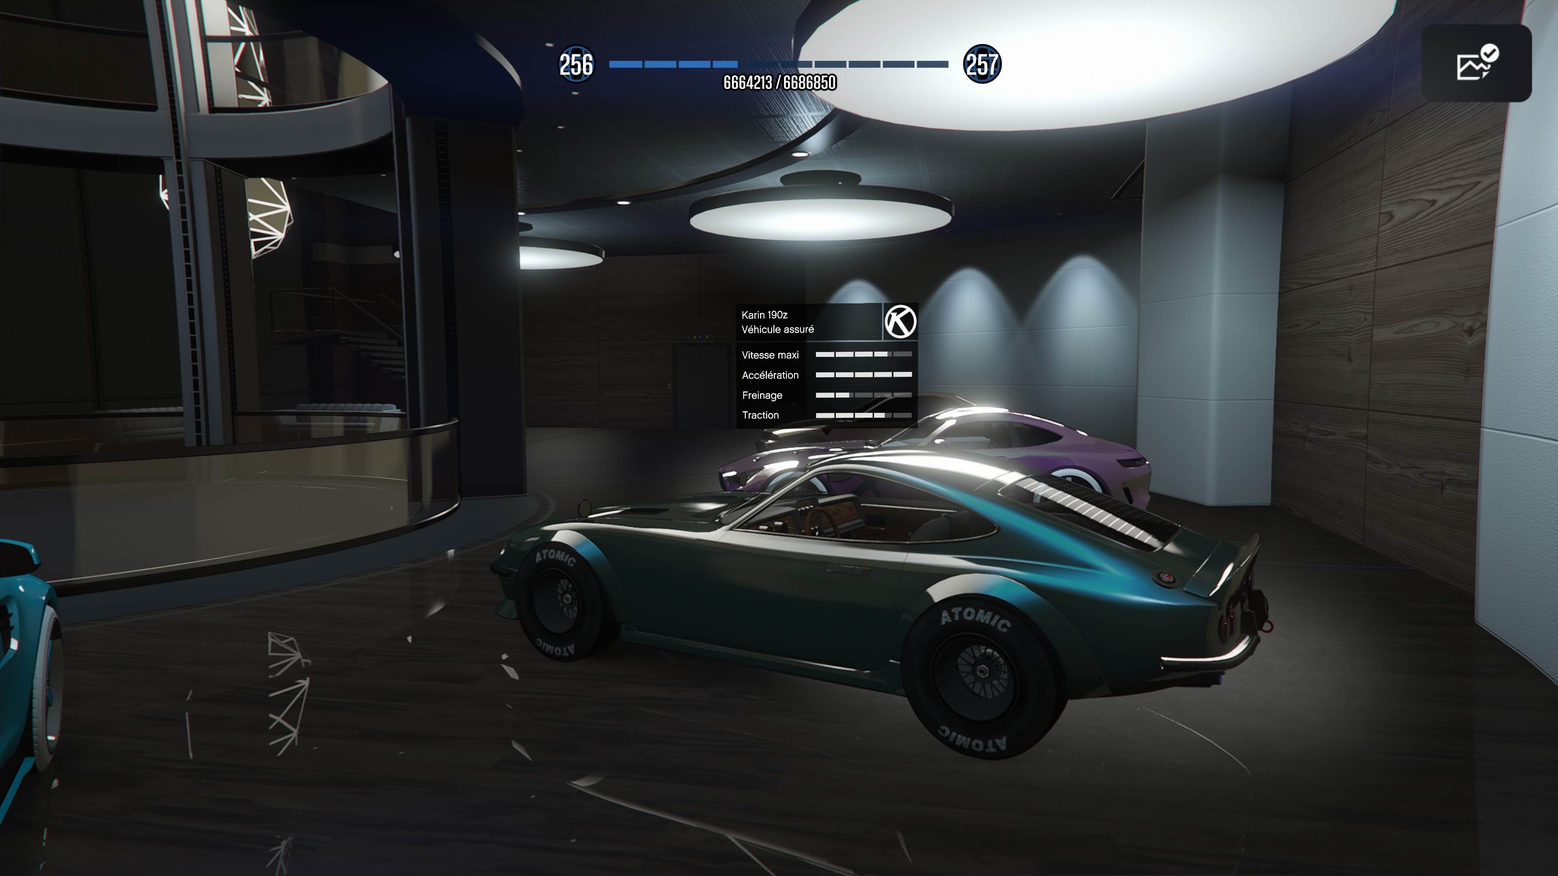
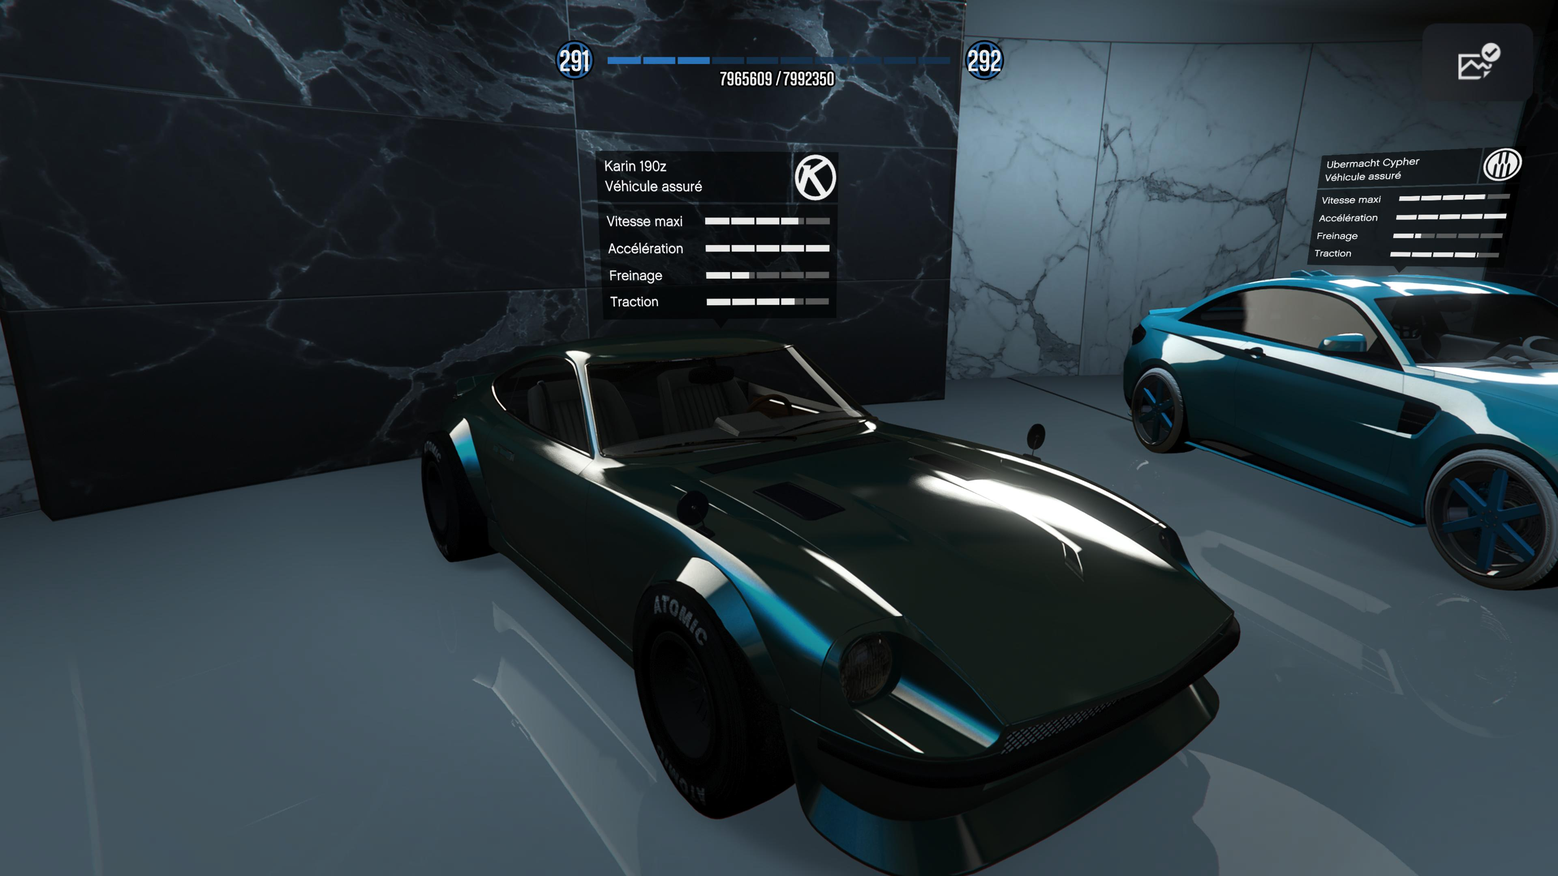
Add files via upload

diff --git a/vehicules.html b/vehicules.html
@@ -300,6 +300,57 @@
 
         // --- LISTE DES VÉHICULES ---
         const vehicles = [
+            
+            // --- BOITE 2 (Ordre : Zentorno, Vectre, S95, Itali GTO, ETR1) ---
+            { name: "Pegassi Zentorno", images: ["boite2/Zentorno.jpg", "boite2/Zentorno1.jpg", "boite2/Zentorno2.jpg", "boite2/Zentorno3.jpg"], tag: "Caméléon • F1 • Yankton", garage: "boite2" },
+            { name: "Emperor Vectre", images: ["boite2/Vectre.jpg", "boite2/Vectre1.jpg", "boite2/Vectre2.jpg", "boite2/Vectre3.jpg"], tag: "Vert • F1 • Yankton", garage: "boite2" },
+            { name: "Karin S95", images: ["boite2/S95.jpg", "boite2/S951.jpg", "boite2/S952.jpg", "boite2/S953.jpg"], tag: "Rose • F1 • Yankton", garage: "boite2" },
+            { name: "Grotti Itali GTO", images: ["boite2/Itali GTO.jpg", "boite2/Itali GTO1.jpg", "boite2/Itali GTO2.jpg", "boite2/Itali GTO3.jpg"], tag: "Bleu • F1 • Yankton", garage: "boite2" },
+            { name: "Emperor ETR1", images: ["boite2/ETR.jpg", "boite2/ETR1.jpg", "boite2/ETR2.jpg", "boite2/ETR3.jpg"], tag: "Bleu • F1 • Yankton", garage: "boite2" },
+
+            // --- FONCTION 2 (Ordre du menu) ---
+            { name: "Canis Kalahari", images: ["fonction2/Kalahari.jpg", "fonction2/Kalahari1.jpg", "fonction2/Kalahari2.jpg", "fonction2/Kalahari3.jpg"], tag: "Rose • F1 • Yankton", garage: "fonction2" },
+            { name: "Albany Roosevelt Valor", images: ["fonction2/Roosevelt.jpg", "fonction2/Roosevelt1.jpg", "fonction2/Roosevelt2.jpg", "fonction2/Roosevelt3.jpg"], tag: "Violet • F1 • Yankton", garage: "fonction2" },
+            { name: "Ubermacht Cypher", images: ["fonction2/Cypher.jpg", "fonction2/Cypher1.jpg", "fonction2/Cypher2.jpg", "fonction2/Cypher3.jpg"], tag: "Bleu • F1 • Yankton", garage: "fonction2" },
+            { name: "Karin 190z", images: ["fonction2/190z.jpg", "fonction2/190z1.jpg", "fonction2/190z2.jpg", "fonction2/190z3.jpg"], tag: "Vert • F1 • Yankton", garage: "fonction2" },
+            { name: "Benefactor Schlagen GT", images: ["fonction2/Schlagen.jpg", "fonction2/Schlagen1.jpg", "fonction2/Schlagen2.jpg", "fonction2/Schlagen3.jpg"], tag: "Violet • F1 • Yankton", garage: "fonction2" },
+            { name: "Elegy Rétro Custom", images: ["fonction2/elegy.jpg", "fonction2/elegy1.jpg", "fonction2/elegy2.jpg", "fonction2/elegy3.jpg"], tag: "Gris • F1 • Yankton", garage: "fonction2" },
+            { name: "Willard Eudora", images: ["fonction2/Eudora.jpg", "fonction2/Eudora1.jpg", "fonction2/Eudora2.jpg"], tag: "Jaune • F1 • Yankton", garage: "fonction2" },
+            { name: "Weeny Dynasty", images: ["fonction2/Dynasty.jpg", "fonction2/Dynasty1.jpg", "fonction2/Dynasty2.jpg"], tag: "Jaune • F1 • Yankton", garage: "fonction2" },
+            { name: "RUNE Zhaba", images: ["fonction2/Zhaba.jpg", "fonction2/Zhaba1.jpg", "fonction2/Zhaba2.jpg", "fonction2/Zhaba3.jpg"], tag: "Bleu • F1 • Yankton", garage: "fonction2" },
+            { name: "Grotti Itali RSX", images: ["fonction2/Itali RSX.jpg", "fonction2/Itali RSX1.jpg", "fonction2/Itali RSX2.jpg", "fonction2/Itali RSX3.jpg"], tag: "Violet • F1 • Yankton", garage: "fonction2" },
+            { name: "Albany Brigham", images: ["fonction2/Brigham.jpg", "fonction2/Brigham1.jpg", "fonction2/Brigham2.jpg"], tag: "Noir • F1 • Yankton", garage: "fonction2" },
+            { name: "Corbillard Romero", images: ["fonction2/Corbillard Romero.jpg", "fonction2/Corbillard Romero1.jpg", "fonction2/Corbillard Romero2.jpg", "fonction2/Corbillard Romero3.jpg"], tag: "Vert • F1 • Yankton", garage: "fonction2" },
+            { name: "Bravado Rat-Loader", images: ["fonction2/Rat-loader.jpg", "fonction2/Rat-loader1.jpg", "fonction2/Rat-loader2.jpg", "fonction2/Rat-loader3.jpg"], tag: "Blanc • F1 • Yankton", garage: "fonction2" },
+            { name: "Grotti Itali GTO", images: ["fonction2/Itali GTO.jpg", "fonction2/Itali GTO1.jpg", "fonction2/Itali GTO2.jpg", "fonction2/Itali GTO3.jpg"], tag: "Noir • F1 • Yankton", garage: "fonction2" },
+            { name: "BF Raptor", images: ["fonction2/Raptor.jpg", "fonction2/Raptor1.jpg", "fonction2/Raptor2.jpg", "fonction2/Raptor3.jpg"], tag: "Bleu • F1 • Yankton", garage: "fonction2" },
+            { name: "Overflod Pipistrello", images: ["fonction2/Pipistrello.jpg", "fonction2/Pipistrello1.jpg", "fonction2/Pipistrello2.jpg", "fonction2/Pipistrello3.jpg"], tag: "Bleu • F1 • Yankton", garage: "fonction2" },
+            { name: "Ocelot XA-21", images: ["fonction2/XA.jpg", "fonction2/XA1.jpg", "fonction2/XA2.jpg", "fonction2/XA3.jpg"], tag: "Vert • F1 • Yankton", garage: "fonction2" },
+            { name: "Caddie", images: ["fonction2/Caddie.jpg", "fonction2/Caddie1.jpg", "fonction2/Caddie2.jpg", "fonction2/Caddie3.jpg"], tag: "Vert • F1 • Yankton", garage: "fonction2" },
+            { name: "Invetero Coquette D5", images: ["fonction2/D5.jpg", "fonction2/D51.jpg", "fonction2/D52.jpg", "fonction2/D53.jpg"], tag: "Rouge • F1 • Yankton", garage: "fonction2" },
+            { name: "Enus Paragon S", images: ["fonction2/Paragon S.jpg", "fonction2/Paragon S1.jpg", "fonction2/Paragon S2.jpg", "fonction2/Paragon S3.jpg"], tag: "Rose • F1 • Yankton", garage: "fonction2" },
+
+            // --- FONCTION 3 (Ordre du menu) ---
+            { name: "Blazer Street", images: ["fonction3/street.jpg"], tag: "Violet • F1 • Yankton", garage: "fonction3" },
+            { name: "Hot Rod Blazer", images: ["fonction3/Blazer.jpg"], tag: "Bleu • F1 • Yankton", garage: "fonction3" },
+            { name: "Ubermacht Revolter", images: ["fonction3/Revolter.jpg"], tag: "Violet • F1 • Yankton", garage: "fonction3" },
+            { name: "Canis Bodhi", images: ["fonction3/Bodhi.jpg"], tag: "Gris • F1 • Yankton", garage: "fonction3" },
+            { name: "Go Go Monkey Blista", images: ["fonction3/monkey.jpg"], tag: "Noir • F1 • Yankton", garage: "fonction3" },
+            { name: "Dinka Sugoi", images: ["fonction3/Sugoi.jpg"], tag: "Gris • F1 • Yankton", garage: "fonction3" },
+            { name: "Karin Calico GTF", images: ["fonction3/Calico GTF.jpg"], tag: "Noir • F1 • Yankton", garage: "fonction3" },
+            { name: "Emperor Vectre", images: ["fonction3/Vectre.jpg"], tag: "Caméléon • F1 • Yankton", garage: "fonction3" },
+            { name: "Bravado Verlierer", images: ["fonction3/Verlierer.jpg"], tag: "Gris • F1 • Yankton", garage: "fonction3" },
+            { name: "Canis Castigator", images: ["fonction3/Castigator.jpg"], tag: "Vert • F1 • Yankton", garage: "fonction3" },
+            { name: "Coil Cyclone II", images: ["fonction3/Cyclone II.jpg"], tag: "Rose • F1 • Yankton", garage: "fonction3" },
+            { name: "MTL Dune", images: ["fonction3/Dune.jpg"], tag: "Or • F1 • Yankton", garage: "fonction3" },
+            { name: "Vapid Hotknife", images: ["fonction3/Hotknife.jpg"], tag: "Gris • F1 • Yankton", garage: "fonction3" },
+            { name: "Imponte Nightshade", images: ["fonction3/Nightshade.jpg"], tag: "Rouge • F1 • Yankton", garage: "fonction3" },
+            { name: "Benefactor Panto", images: ["fonction3/Panto.jpg"], tag: "Vert • F1 • Yankton", garage: "fonction3" },
+            { name: "HVY Scarab", images: ["fonction3/Scarab anticipation.jpg"], tag: "Or • F1 • Yankton", garage: "fonction3" },
+            { name: "Turismo Classique", images: ["fonction3/Turismo classique.jpg"], tag: "Noir • F1 • Yankton", garage: "fonction3" },
+            { name: "ZR380 Anticipation", images: ["fonction3/ZR380 anticipation.jpg"], tag: "Rouge • F1 • Yankton", garage: "fonction3" },
+            { name: "Blista Kanjo", images: ["fonction3/Blista Kanjo.jpg"], tag: "Noir • F1 • Yankton", garage: "fonction3" },
+
             // --- ARENE RDC ---
             { name: "Obey 8F Drafter", images: ["arenerdc/8F Drafter.jpg", "arenerdc/8F Drafter1.jpg", "arenerdc/8F Drafter2.jpg", "arenerdc/8F Drafter3.jpg"], tag: "Bleu • F1 • Yankton", garage: "arenerdc" },
             { name: "Obey 10F Widebody", images: ["arenerdc/10f large.jpg", "arenerdc/10f large1.jpg", "arenerdc/10f large2.jpg", "arenerdc/10f large3.jpg"], tag: "Or • Benny's • Yankton", garage: "arenerdc" },
@@ -332,55 +383,7 @@
             { name: "Progen T20", images: ["arene2/T20.jpg", "arene2/T201.jpg"], tag: "Violet • F1 • Yankton", garage: "arene2" },
             { name: "Dewbauchee Vagner", images: ["arene2/Vagner.jpg"], tag: "Noir • F1 • Yankton", garage: "arene2" },
             { name: "Grotti Vigilante", images: ["arene2/Vigilante.jpg"], tag: "Gris • F1 • Yankton", garage: "arene2" },
-            { name: "Apocalypse ZR380", images: ["arene2/ZR380 anticipation.jpg", "arene2/ZR380 anticipation1.jpg", "arene2/ZR380 anticipation2.jpg"], tag: "Vert • F1 • Yankton", garage: "arene2" },
-
-            // --- BOITE 2 ---
-            { name: "Emperor Vectre", images: ["boite2/Vectre.jpg", "boite2/Vectre1.jpg", "boite2/Vectre2.jpg", "boite2/Vectre3.jpg"], tag: "Vert • F1 • Yankton", garage: "boite2" },
-            { name: "Pegassi Zentorno", images: ["boite2/Zentorno.jpg", "boite2/Zentorno1.jpg", "boite2/Zentorno2.jpg", "boite2/Zentorno3.jpg"], tag: "Vert • F1 • Yankton", garage: "boite2" },
-
-            // --- FONCTION 2 ---
-            { name: "Karin 190z", images: ["fonction2/190z.jpg"], tag: "Vert • F1 • Yankton", garage: "fonction2" },
-            { name: "Bravado Rat-Loader", images: ["fonction2/Bravado.jpg"], tag: "Noir • F1 • Yankton", garage: "fonction2" },
-            { name: "Albany Brigham", images: ["fonction2/Brigham.jpg"], tag: "Noir • F1 • Yankton", garage: "fonction2" },
-            { name: "Caddie", images: ["fonction2/Caddie.jpg"], tag: "Vert • F1 • Yankton", garage: "fonction2" },
-            { name: "Ubermacht Cypher", images: ["fonction2/Cypher.jpg"], tag: "Vert • F1 • Yankton", garage: "fonction2" },
-            { name: "Invetero Coquette D5", images: ["fonction2/D5.jpg"], tag: "Rouge • F1 • Yankton", garage: "fonction2" },
-            { name: "Invetero Coquette D10", images: ["fonction2/D10.jpg"], tag: "Noir • F1 • Yankton", garage: "fonction2" },
-            { name: "Weeny Dynasty", images: ["fonction2/Dynasty.jpg"], tag: "Jaune • F1 • Yankton", garage: "fonction2" },
-            { name: "Elegy Rétro Custom", images: ["fonction2/elegy.jpg"], tag: "Gris • F1 • Yankton", garage: "fonction2" },
-            { name: "Willard Eudora", images: ["fonction2/Eudora.jpg"], tag: "Jaune • F1 • Yankton", garage: "fonction2" },
-            { name: "Grotti Itali GTO", images: ["fonction2/Itali GTO.jpg"], tag: "Noir • F1 • Yankton", garage: "fonction2" },
-            { name: "Grotti Itali RSX", images: ["fonction2/Itali.jpg"], tag: "Violet • F1 • Yankton", garage: "fonction2" },
-            { name: "Canis Kalahari", images: ["fonction2/Kalahari.jpg"], tag: "Rose • F1 • Yankton", garage: "fonction2" },
-            { name: "Enus Paragon S", images: ["fonction2/Paragon S.jpg"], tag: "Rose • F1 • Yankton", garage: "fonction2" },
-            { name: "Overflod Pipistrello", images: ["fonction2/Pipistrello.jpg"], tag: "Bleu • F1 • Yankton", garage: "fonction2" },
-            { name: "BF Raptor", images: ["fonction2/Raptor.jpg"], tag: "Vert • F1 • Yankton", garage: "fonction2" },
-            { name: "Corbillard Romero", images: ["fonction2/Romero.jpg"], tag: "Vert • F1 • Yankton", garage: "fonction2" },
-            { name: "Schlagen GT", images: ["fonction2/schlagen.jpg"], tag: "Bleu • F1 • Yankton", garage: "fonction2" },
-            { name: "Schlagen GT (v2)", images: ["fonction2/Schlagen GT.jpg"], tag: "Bleu • F1 • Yankton", garage: "fonction2" },
-            { name: "Albany Roosevelt Valor", images: ["fonction2/Valor.jpg"], tag: "Violet • F1 • Yankton", garage: "fonction2" },
-            { name: "RUNE Zhaba", images: ["fonction2/Zhaba.jpg"], tag: "Vert • F1 • Yankton", garage: "fonction2" },
-
-             // --- FONCTION 3 ---
-            { name: "Hot Rod Blazer", images: ["fonction3/Blazer.jpg"], tag: "Bleu • F1 • Yankton", garage: "fonction3" },
-            { name: "Blista Kanjo", images: ["fonction3/Blista Kanjo.jpg"], tag: "Noir • F1 • Yankton", garage: "fonction3" },
-            { name: "Canis Bodhi", images: ["fonction3/Bodhi.jpg"], tag: "Gris • F1 • Yankton", garage: "fonction3" },
-            { name: "Karin Calico GTF", images: ["fonction3/Calico GTF.jpg"], tag: "Noir • F1 • Yankton", garage: "fonction3" },
-            { name: "Canis Castigator", images: ["fonction3/Castigator.jpg"], tag: "Vert • F1 • Yankton", garage: "fonction3" },
-            { name: "Coil Cyclone II", images: ["fonction3/Cyclone II.jpg"], tag: "Rose • F1 • Yankton", garage: "fonction3" },
-            { name: "MTL Dune", images: ["fonction3/Dune.jpg"], tag: "Or • F1 • Yankton", garage: "fonction3" },
-            { name: "Vapid Hotknife", images: ["fonction3/Hotknife.jpg"], tag: "Gris • F1 • Yankton", garage: "fonction3" },
-            { name: "Go Go Monkey Blista", images: ["fonction3/monkey.jpg"], tag: "Noir • F1 • Yankton", garage: "fonction3" },
-            { name: "Imponte Nightshade", images: ["fonction3/Nightshade.jpg"], tag: "Rouge • F1 • Yankton", garage: "fonction3" },
-            { name: "Benefactor Panto", images: ["fonction3/Panto.jpg"], tag: "Vert • F1 • Yankton", garage: "fonction3" },
-            { name: "Ubermacht Revolter", images: ["fonction3/Revolter.jpg"], tag: "Violet • F1 • Yankton", garage: "fonction3" },
-            { name: "HVY Scarab", images: ["fonction3/Scarab anticipation.jpg"], tag: "Or • F1 • Yankton", garage: "fonction3" },
-            { name: "Blazer Street", images: ["fonction3/street.jpg"], tag: "Violet • F1 • Yankton", garage: "fonction3" },
-            { name: "Dinka Sugoi", images: ["fonction3/Sugoi.jpg"], tag: "Gris • F1 • Yankton", garage: "fonction3" },
-            { name: "Turismo Classique", images: ["fonction3/Turismo classique.jpg"], tag: "Noir • F1 • Yankton", garage: "fonction3" },
-            { name: "Emperor Vectre", images: ["fonction3/Vectre.jpg"], tag: "Caméléon • F1 • Yankton", garage: "fonction3" },
-            { name: "Bravado Verlierer", images: ["fonction3/Verlierer.jpg"], tag: "Gris • F1 • Yankton", garage: "fonction3" },
-            { name: "ZR380 Anticipation", images: ["fonction3/ZR380 anticipation.jpg"], tag: "Rouge • F1 • Yankton", garage: "fonction3" }
+            { name: "Apocalypse ZR380", images: ["arene2/ZR380 anticipation.jpg", "arene2/ZR380 anticipation1.jpg", "arene2/ZR380 anticipation2.jpg"], tag: "Vert • F1 • Yankton", garage: "arene2" }
         ];
 
         // --- ETAT GLOBAL ---
@@ -429,7 +432,6 @@
             modalDesc.innerText = currentVehicle.tag;
 
             if (currentVehicle.images.length > 1) {
-                // Gestion compteur
                 const nav = document.getElementById("prevBtn").parentNode;
                 const oldCounter = document.getElementById("imgCounter");
                 if(oldCounter) oldCounter.remove();
@@ -472,13 +474,9 @@
             let count = 0;
 
             vehicles.forEach((v) => {
-                // Filtre Recherche Textuelle
                 const matchSearch = v.name.toLowerCase().includes(search);
-                
-                // Filtre Onglet Garage
                 const matchGarage = (currentGarage === 'all' || v.garage === currentGarage);
 
-                // Filtres Avancés
                 const vTags = v.tag.toLowerCase();
                 const matchWheel = (currentFilters.wheel === 'all' || vTags.includes(currentFilters.wheel.toLowerCase()));
                 const matchPlate = (currentFilters.plate === 'all' || vTags.includes(currentFilters.plate.toLowerCase()));
@@ -489,7 +487,7 @@
                     card.className = 'vehicle-card';
                     card.onclick = function() { openImageModal(v); };
                     
-                    const garageName = v.garage.replace(/(\d)/, ' $1').toUpperCase(); // Ajoute un espace avant le chiffre
+                    const garageName = v.garage.replace(/(\d)/, ' $1').toUpperCase();
 
                     card.innerHTML = `
                         <img src="${v.images[0]}" class="vehicle-img" alt="${v.name}" loading="lazy" onerror="this.src='https://via.placeholder.com/300x200?text=Image+Introuvable'">

diff --git a/index.html b/index.html
@@ -5,6 +5,11 @@
 <meta name="viewport" content="width=device-width, initial-scale=1.0">
 <title>itsmto • Accueil</title>
 <link href="https://fonts.googleapis.com/css2?family=Inter:wght@300;400;500;600;700;800&display=swap" rel="stylesheet">
+
+<script src="https://unpkg.co/gsap@3/dist/gsap.min.js"></script>
+<script src="https://assets.codepen.io/16327/Flip.min.js"></script>
+<script src="https://cdnjs.cloudflare.com/ajax/libs/gsap/3.11.5/CustomEase.min.js"></script>
+
 <style>
     :root { --bg-body: #f5f3ff; --text-main: #1e1b4b; --text-muted: #64748b; --nav-bg: #ffffff; --card-bg: #ffffff; --card-border: #c4b5fd; --btn-color: #725AC1; --shadow-tone: rgba(114, 90, 193, 0.15); }
     body { margin: 0; padding: 0; font-family: 'Inter', sans-serif; background: var(--bg-body); color: var(--text-main); line-height: 1.6; overflow-x: hidden; }
@@ -26,21 +31,126 @@
     
     @media (max-width: 768px) { .nav-links { display: none; } .menu-toggle { display: block; } }
 
-    /* Hero & Contenu */
+    /* Hero & Contenu Existants */
     .reveal { opacity: 0; transform: translateY(20px); transition: all 0.6s ease; }
     .reveal.visible { opacity: 1; transform: translateY(0); }
-    .hero { padding: 180px 0 100px; text-align: center; position: relative; }
+    .hero { padding: 180px 0 50px; text-align: center; position: relative; } /* Padding ajusté */
     .blob-bg::before { content: ''; position: absolute; width: 6rem; height: 6rem; right: 20%; top: 10%; z-index: -1; background-color: #8b5cf6; border-radius: 9999px; filter: blur(50px); opacity: 0.4; }
     .blob-bg::after { content: ''; position: absolute; width: 8rem; height: 8rem; left: 20%; bottom: 10%; z-index: -1; background-color: #c4b5fd; border-radius: 9999px; filter: blur(60px); opacity: 0.5; }
     
-    .universal-btn { position: relative; display: inline-flex; justify-content: center; align-items: center; padding: 12px 28px; text-decoration: none; color: var(--btn-color); background: transparent; border: 2px solid var(--btn-color); box-shadow: inset 0 0 0 0 var(--btn-color); cursor: pointer; transition: ease-out 0.5s; border-radius: 10px; font-weight: 700; }
+    .universal-btn { position: relative; display: inline-flex; justify-content: center; align-items: center; padding: 12px 28px; text-decoration: none; color: var(--btn-color); background: transparent; border: 2px solid var(--btn-color); box-shadow: inset 0 0 0 0 var(--btn-color); cursor: pointer; transition: ease-out 0.5s; border-radius: 10px; font-weight: 700; margin-bottom: 20px;}
     .universal-btn:hover { color: white; box-shadow: inset 0 -100px 0 0 var(--btn-color); }
     
     .info-section { background: var(--card-bg); border: 1px solid var(--card-border); border-radius: 24px; padding: 40px; margin: 40px 0; text-align: left; box-shadow: 0 20px 40px -20px var(--shadow-tone); }
     .info-grid { display: grid; grid-template-columns: repeat(auto-fit, minmax(250px, 1fr)); gap: 30px; margin-top: 30px; }
     .info-item h3 { color: var(--btn-color); margin-bottom: 10px; }
     
-    footer { border-top: 1px solid var(--card-border); padding: 40px 0; text-align: center; color: var(--text-muted); font-size: 13px; }
+    /* --- NOUVEAUX STYLES POUR L'ANIMATION GSAP --- */
+    
+    .animation-wrapper {
+        position: relative;
+        width: 100%;
+        min-height: 800px; /* Espace pour l'animation */
+        display: flex;
+        flex-direction: column;
+        align-items: center;
+        margin-top: 50px;
+    }
+
+    /* Le Gros Texte Arrière-plan */
+    .big-text-bg {
+        position: absolute;
+        top: 20%;
+        left: 50%;
+        transform: translate(-50%, -50%);
+        text-align: center;
+        z-index: 0;
+        width: 100%;
+        pointer-events: none; /* Pour que le clic passe à travers */
+    }
+
+    .big-text-bg h1 {
+        font-size: 15vw; /* Très grand responsive */
+        font-weight: 400;
+        letter-spacing: -0.05em;
+        color: rgba(30, 27, 75, 0.1); /* Couleur text-main mais très transparente */
+        margin: 0;
+        line-height: 1;
+    }
+
+    .big-text-bg p {
+        font-size: 1.5rem;
+        color: #22c55e; /* Vert demandé */
+        font-weight: 600;
+        margin-top: 10px;
+    }
+
+    /* Conteneur Galerie */
+    .img-gallery-container {
+        position: relative;
+        width: 100%;
+        height: 600px;
+        z-index: 10;
+        margin-top: 100px;
+    }
+
+    /* Les Images (Cartes) */
+    .img {
+        position: absolute;
+        width: 300px;
+        height: 400px;
+        overflow: hidden;
+        border-radius: 15px;
+        box-shadow: 0 20px 50px rgba(0,0,0,0.2);
+        
+        /* Position initiale "étalée" (quand c'est ouvert) */
+        top: 50%;
+        left: 50%;
+        transform: translate(-50%, -50%);
+    }
+    
+    .img img {
+        width: 100%;
+        height: 100%;
+        object-fit: cover;
+    }
+
+    /* Positions quand étalé */
+    .img:nth-child(1) { margin-left: -350px; transform: translate(-50%, -50%) rotate(-5deg); }
+    .img:nth-child(2) { margin-left: -120px; transform: translate(-50%, -50%) rotate(-2deg); }
+    .img:nth-child(3) { margin-left: 120px; transform: translate(-50%, -50%) rotate(2deg); }
+    .img:nth-child(4) { margin-left: 350px; transform: translate(-50%, -50%) rotate(5deg); }
+
+    /* Classe .reorder : État "Empilé" (Initial) */
+    .img.reorder {
+        margin-left: 0; /* Reset marge */
+        /* Tous au centre */
+        top: 50%;
+        left: 50%;
+    }
+    /* Légère rotation pour l'effet de paquet de cartes */
+    .img.reorder:nth-child(1) { transform: translate(-50%, -50%) rotate(6deg); z-index: 1;}
+    .img.reorder:nth-child(2) { transform: translate(-50%, -50%) rotate(-3deg); z-index: 2;}
+    .img.reorder:nth-child(3) { transform: translate(-50%, -50%) rotate(2deg); z-index: 3;}
+    .img.reorder:nth-child(4) { transform: translate(-50%, -50%) rotate(-1deg); z-index: 4;}
+
+    /* Bouton d'action pour l'animation */
+    .toggle-btn {
+        margin-top: 20px;
+        background: var(--btn-color);
+        color: white;
+        border: none;
+        padding: 15px 40px;
+        border-radius: 30px;
+        font-size: 16px;
+        cursor: pointer;
+        z-index: 20;
+        font-weight: bold;
+        transition: transform 0.2s;
+    }
+    .toggle-btn:hover { transform: scale(1.05); }
+
+    footer { border-top: 1px solid var(--card-border); padding: 40px 0; text-align: center; color: var(--text-muted); font-size: 13px; position: relative; z-index: 20; background: var(--bg-body); }
 </style>
 </head>
 <body>
@@ -87,18 +197,77 @@
     </div>
 </section>
 
+<div class="animation-wrapper reveal">
+    
+    <button class="toggle-btn">Voir les exemples</button>
+
+    <div class="big-text-bg">
+        <h1>ITSMTO</h1>
+    </div>
+
+    <div class="img-gallery-container order">
+        <div class="img reorder" id="i-1">
+            <img src="./images/img1.jpg" alt="Véhicule 1" />
+        </div>
+        <div class="img reorder">
+            <img src="./images/img2.jpg" alt="Véhicule 2" />
+        </div>
+        <div class="img reorder">
+            <img src="./images/img3.jpg" alt="Véhicule 3" />
+        </div>
+        <div class="img reorder">
+            <img src="./images/img4.jpg" alt="Véhicule 4" />
+        </div>
+    </div>
+</div>
+
 <footer><p>&copy; 2026 itsmto. Tous droits réservés.</p></footer>
 
 <script>
+    // Menu Mobile
     function toggleMobileMenu() { 
         const m = document.getElementById('mobileMenu'); 
         m.style.display = (m.style.display === 'flex') ? 'none' : 'flex'; 
     }
     
+    // Reveal au scroll
     const obs = new IntersectionObserver((es) => { 
         es.forEach(e => { if (e.isIntersecting) e.target.classList.add('visible'); }); 
     }, { threshold: 0.1 });
     document.querySelectorAll('.reveal').forEach((el) => obs.observe(el));
+
+    // --- SCRIPT D'ANIMATION GSAP FLIP ---
+    gsap.registerPlugin(Flip);
+    CustomEase.create("cubic", "0.83, 0, 0.17, 1");
+
+    const gallery = document.querySelector(".img-gallery-container");
+    const images = gsap.utils.toArray(".img");
+    const btn = document.querySelector(".toggle-btn");
+    
+    let isFlipped = false;
+
+    btn.addEventListener("click", () => {
+        isFlipped = !isFlipped;
+        
+        // Change le texte du bouton
+        btn.textContent = isFlipped ? "Masquer les exemples" : "Voir les exemples";
+
+        // Capture l'état actuel
+        let state = Flip.getState(".img-gallery-container, .img");
+        
+        // Change les classes (bascule entre empilé et étalé)
+        // Note: J'ai inversé la logique par rapport au code original pour que ça commence empilé
+        images.forEach((img) => img.classList.toggle("reorder"));
+
+        // Anime le changement
+        Flip.from(state, {
+            absolute: true,
+            duration: 1.5,
+            stagger: 0.05,
+            ease: "cubic",
+            simple: true // Optimisation
+        });
+    });
 </script>
 
 </body>
